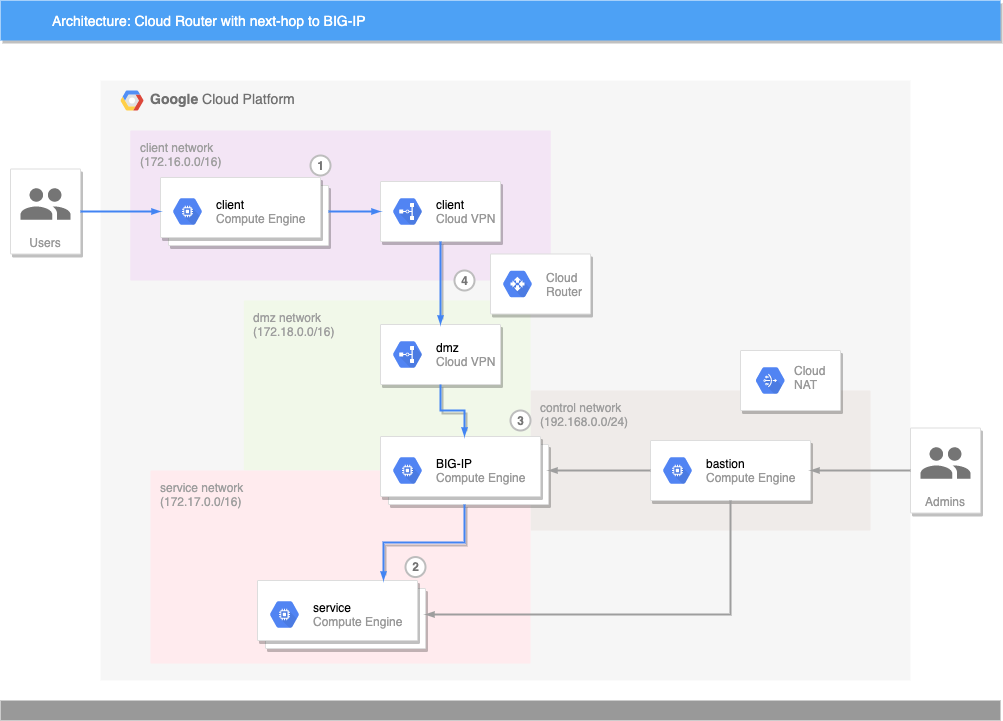
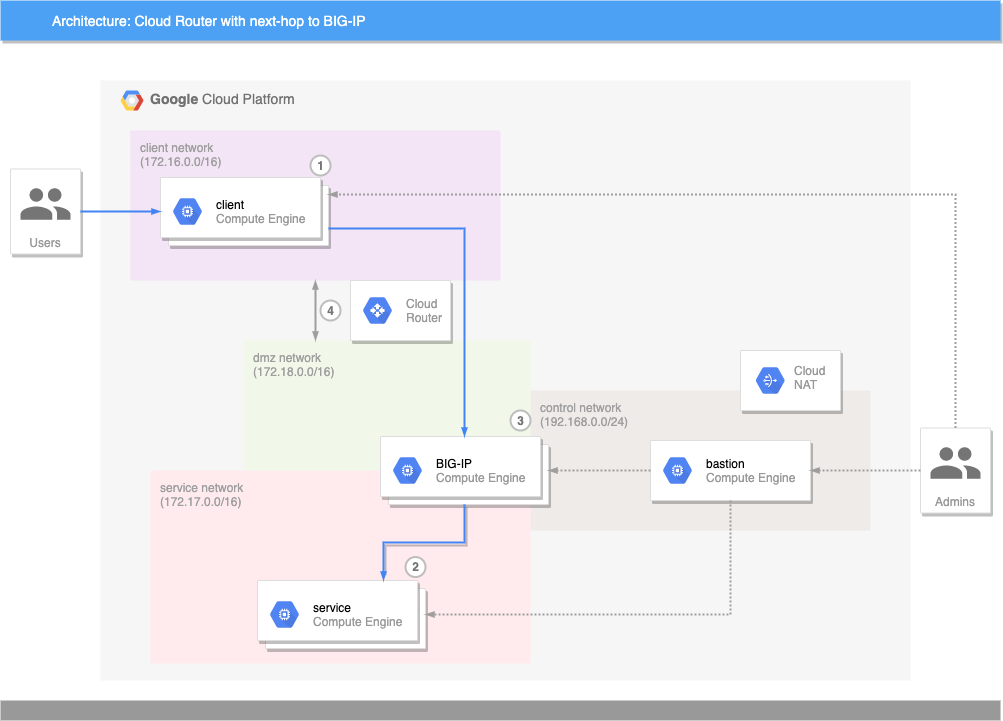
Updated README and added CHANGELOG

Changed region(s): [[0.2473, 0.2441, 0.5872, 0.5798], [0.8963, 0.6103, 0.989, 0.7323]]

diff --git a/README.md b/README.md
@@ -15,14 +15,14 @@ VPCs to use BIG-IP as the next-hop gateway.
 2. Service instances
    * NGINX hosting a static web page
    * No public IP, egress through `control` network only
-3. BIG-IP instance
+3. BIG-IP instances
    * 3-NIC configuration, with interfaces in `dmz`, `control`, and `service`
    * Virtual Server defined on VIP(s) with **Service instances** as pool members
    * Forwarding rule defined on *external* interface (`dmz`)
-4. `client` and `dmz` networks are connected via HA VPN pair, with Cloud Router advertising routes
+4. `client` and `dmz` networks are connected via **VPC Peering**, with Cloud Router advertising routes
    * *client* is advertising `172.16.0.0/16` to *dmz*
    * *dmz* is advertising `172.18.0.0/16` to *client*
-   * *dmz* is advertising `172.17.0.0/16` with **next-hop as BIG-IP**
+   * *dmz* is advertising custom route `172.17.0.0/16` with **next-hop as BIG-IP VMs**
 
 ## Setup
 
@@ -30,12 +30,21 @@ VPCs to use BIG-IP as the next-hop gateway.
    See [foundations](/foundations/#setup) module for example setup
 2. Create/modify the Terraform environment files with required [inputs](#inputs)
 3. Execute Terraform to create the BIG-IP instance and Route
-   **NOTE:** due to weak module dependencies, you may need to invoke this step as
-   in two parts so that the dependent address is known.
+
+   **NOTE:** due to weak module dependencies, you may need to invoke this step
+   as multiple operations so that the reserved internal IP addresses are created
+   before the dependent resources.
 
    ```shell
    terraform init -backend-config env/ENV/poc.config
-   terraform apply -var-file env/ENV/poc.tfvars -auto-approve -target module.bigip
+   terraform apply -var-file env/ENV/poc.tfvars -auto-approve -target google_compute_address.bigip
+   terraform apply -var-file env/ENV/poc.tfvars -auto-approve
+   ```
+
+   > If an error is reported that 'There is a route operation in progress on the
+   > local or peer network' repeat the last `terraform apply` to complete setup.
+
+   ```shell
    terraform apply -var-file env/ENV/poc.tfvars -auto-approve
    ```
 
@@ -47,7 +56,7 @@ VPCs to use BIG-IP as the next-hop gateway.
    terraform destroy -var-file env/ENV/poc.tfvars -auto-approve
    ```
 
-2. Clean up [foundational resource](foundations/#cleanup)
+2. Clean up [foundational resource](foundations/#cleanup) if necessary
 
 <!-- markdownlint-disable no-inline-html -->
 <!-- BEGINNING OF PRE-COMMIT-TERRAFORM DOCS HOOK -->
@@ -66,19 +75,24 @@ VPCs to use BIG-IP as the next-hop gateway.
 | google | ~> 3.34 ~> 3.34 |
 | google.executor | ~> 3.34 ~> 3.34 |
 | random | n/a |
-| terraform | n/a |
 
 ## Inputs
 
 | Name | Description | Type | Default | Required |
 |------|-------------|------|---------|:--------:|
 | bigip\_image | The BIG-IP image to use; default is a v15.1.0.4 PAYG licensed GOOD/25MBps image. | `string` | `"projects/f5-7626-networks-public/global/images/f5-bigip-15-1-0-4-0-0-6-payg-good-25mbps-200618231522"` | no |
-| bigip\_vip | The IP address to set as the BIG-IP VIP. If left blank (default), a value will<br>be chosen from the `dmz_cidr` block. | `string` | `""` | no |
-| foundations\_tf\_state\_bucket | The name of a GCS bucket containing the Terraform state for foundational resources. | `string` | n/a | yes |
-| foundations\_tf\_state\_prefix | The prefix to the foundational Terraform state files. | `string` | n/a | yes |
-| nonce | A nonce to uniquely identify the resources created. | `string` | n/a | yes |
+| bigip\_sa | The fully-qualified email address of BIG-IP service account. | `string` | n/a | yes |
+| client\_sa | The fully-qualified email address of client VMs service account. | `string` | n/a | yes |
+| client\_subnet | A self-link for the client subnet that will host client VMs that will<br>communicate with service VMs through BIG-IP as an advertised next-hop. | `string` | n/a | yes |
+| control\_subnet | A self-link for the control subnet that will host BIG-IP, client, and service<br>management interfaces. | `string` | n/a | yes |
+| dmz\_subnet | A self-link for the DMZ subnet that will host BIG-IP external interface. | `string` | n/a | yes |
+| nonce | A nonce to uniquely identify the resources created. | `string` | `"cloud-route-poc"` | no |
 | num\_bigips | The number of BIG-IP instances to create. Default is 2. | `number` | `2` | no |
+| num\_clients | The number of client instances to create. Default is 1. | `number` | `1` | no |
+| num\_services | The number of service instances to create. Default is 2. | `number` | `2` | no |
 | project\_id | The existing project id that will host the resources. E.g.<br>project\_id = "example-project-id" | `string` | n/a | yes |
+| service\_sa | The fully-qualified email address of service VMs service account. | `string` | n/a | yes |
+| service\_subnet | A self-link for the service subnet that will host BIG-IP internal interface, and<br>service VMs. | `string` | n/a | yes |
 | tf\_sa\_email | The fully-qualified email address of the Terraform service account to use for<br>resource creation. E.g.<br>tf\_sa\_email = "terraform@PROJECT\_ID.iam.gserviceaccount.com" | `string` | n/a | yes |
 | tf\_sa\_token\_lifetime\_secs | The expiration duration for the service account token, in seconds. This value<br>should be high enough to prevent token timeout issues during resource creation,<br>but short enough that the token is useless replayed later. Default value is 1200. | `number` | `1200` | no |
 | zone | The zone to use for BIG-IP and other resources. Default is 'us-central1-f'. | `string` | `"us-central1-f"` | no |
@@ -88,7 +102,6 @@ VPCs to use BIG-IP as the next-hop gateway.
 | Name | Description |
 |------|-------------|
 | bigip\_control\_plane\_ips | The collective set of IP addresses that are assigned to BIG-IP instances<br>attached to the control-plane subnet. |
-| bigip\_vips | The data-plane VIP addresses assigned to BIG-IP. |
 | client\_public\_ips | The public IP addresses for the client instances. |
 
 <!-- END OF PRE-COMMIT-TERRAFORM DOCS HOOK -->

diff --git a/CHANGELOG.md b/CHANGELOG.md
@@ -1,0 +1,19 @@
+# Changelog
+
+## v1.1.0 - VPC peering
+
+* Replace VPN HA pair with VPC Peering
+* Decouple Terraform from [foundations](/foundations) state
+  * Variables for service accounts, subnet self-links are required
+* Modify AS3 to forward to `service` VMs
+* Modified target HTML to include BIG-IP internal address in response
+* Renamed `f5-sales` example Terraform configurations to `emes-poc`
+
+## v1.0.0 - BIG-IP as next-hop
+
+* Cloud Routes advertising `service` subnet CIDR via BIG-IP next-hop
+* Client instances only see `dmz` subnet directly
+
+## v0.0.1 - Limited CIDR advertisement
+
+* Demo use of restricted CIDR advertisements so that only BIG-IP VIP (alias IPs) are visible to client instances
